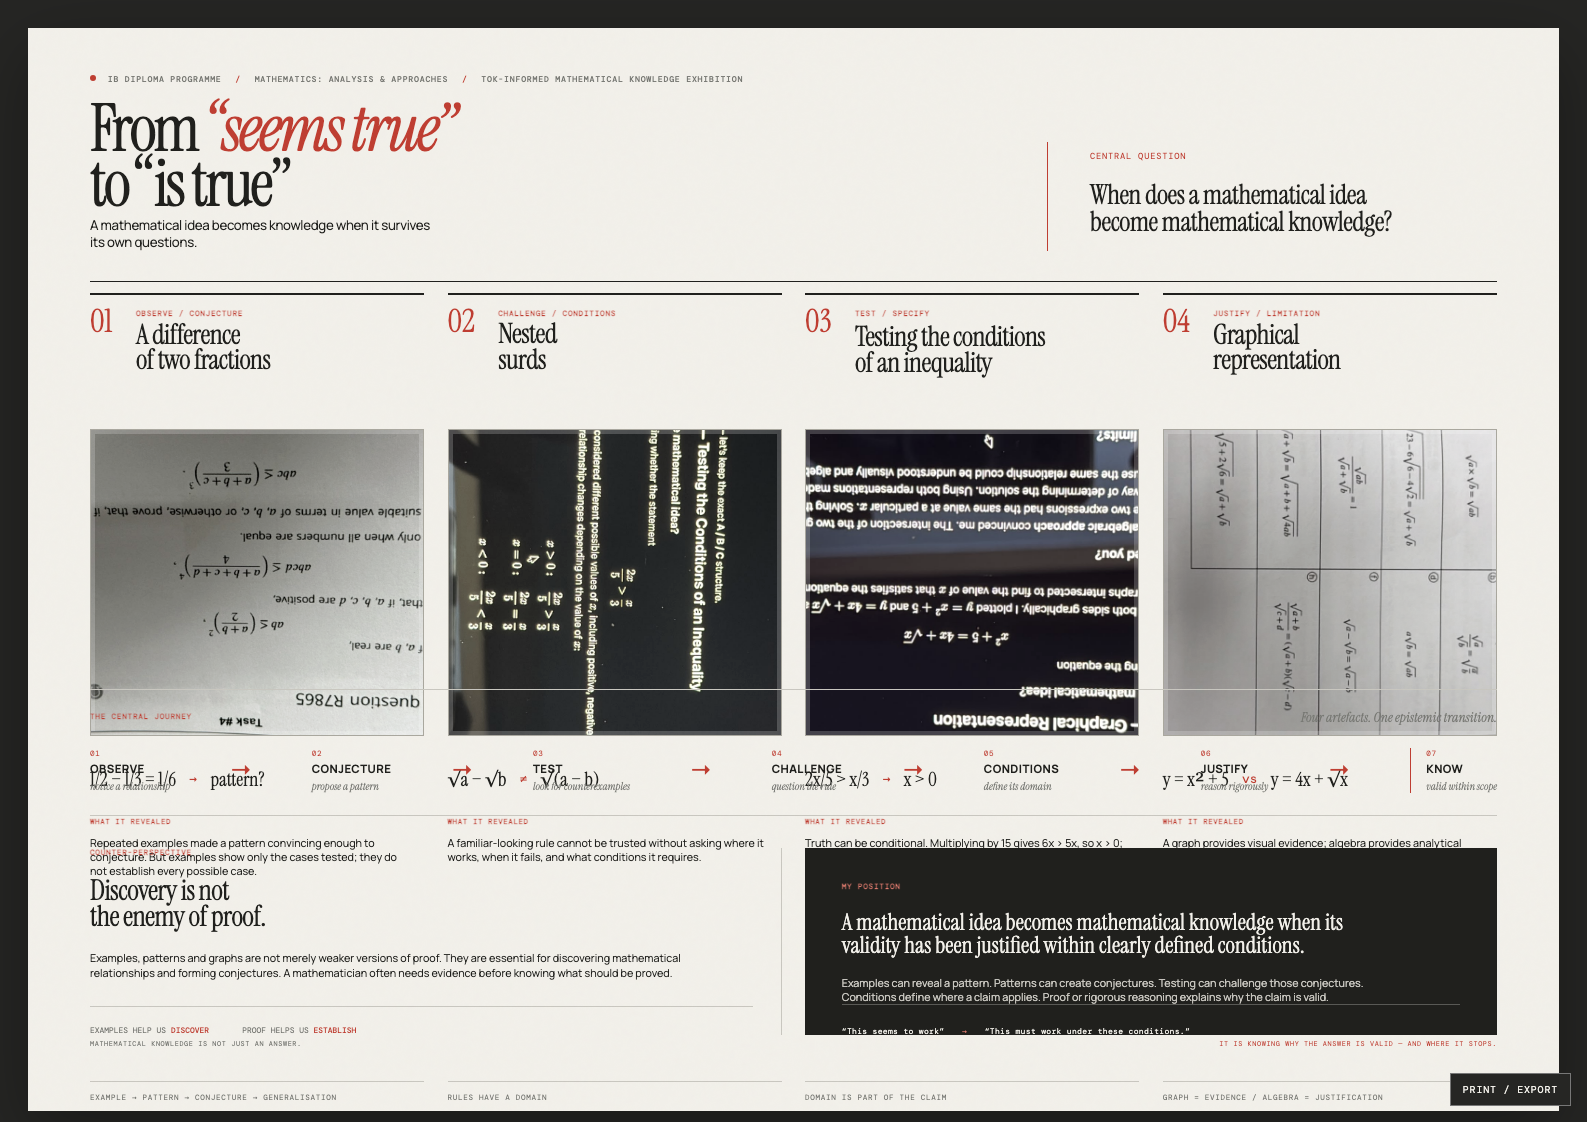
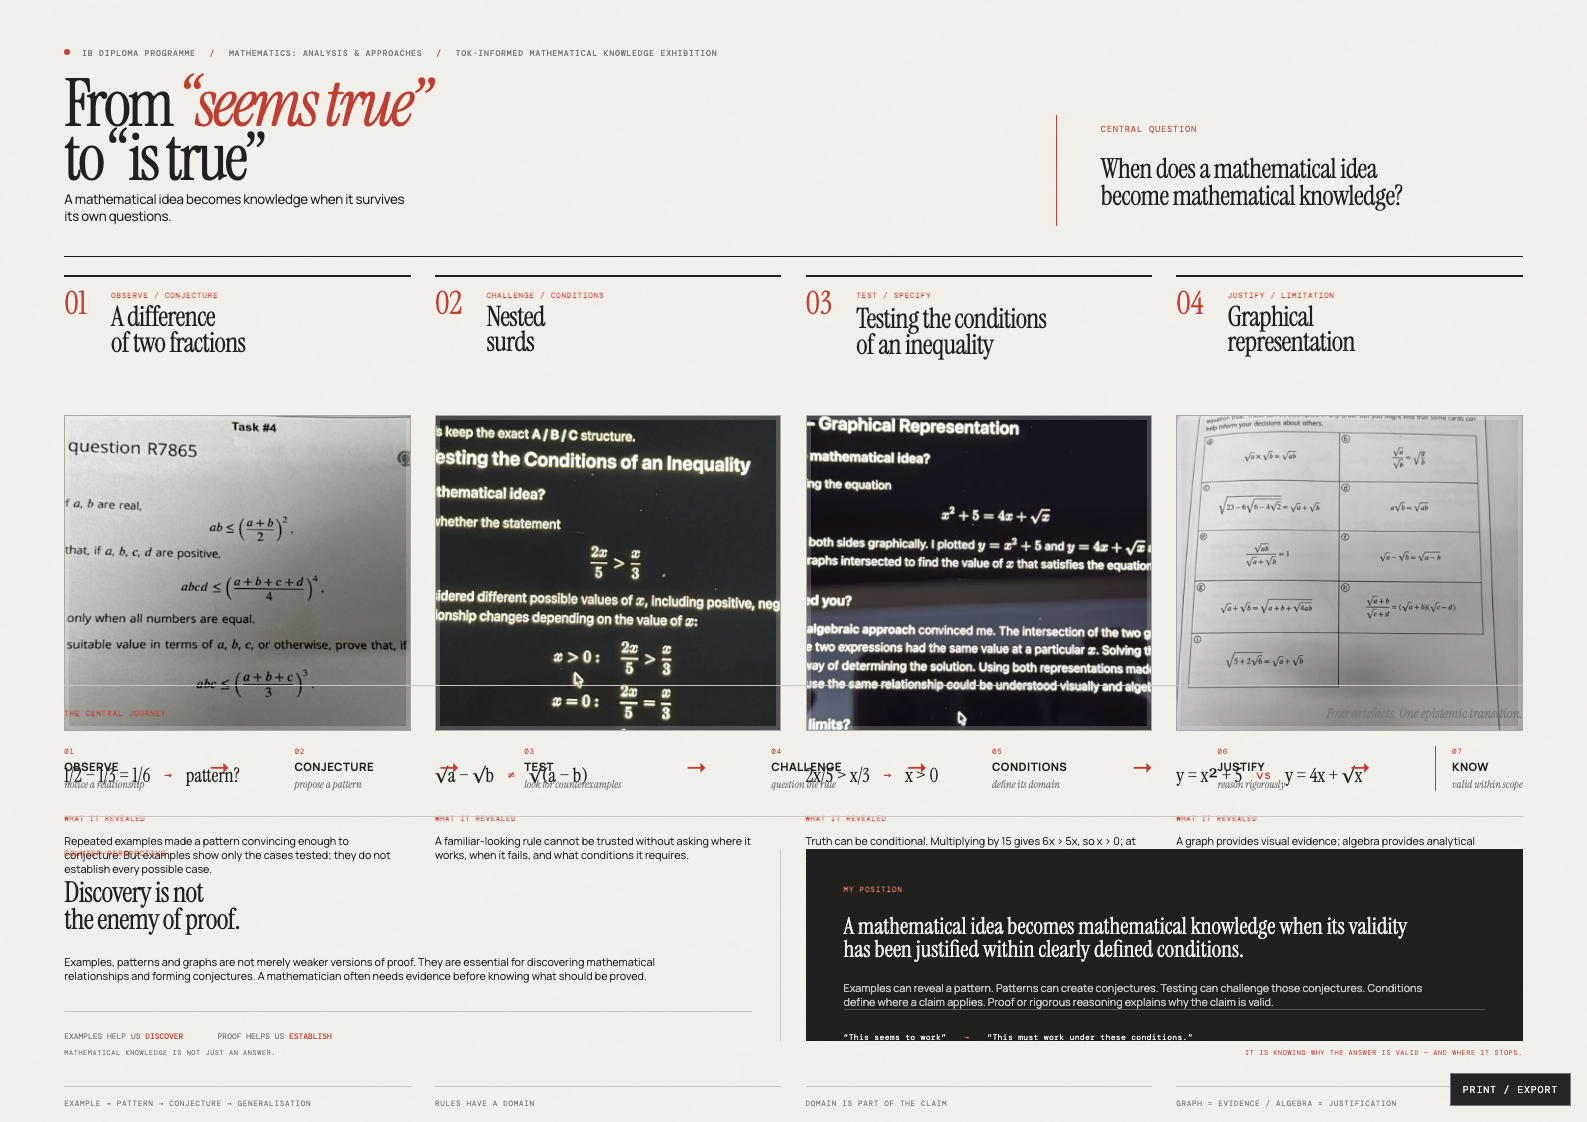
fix: correct evidence photograph orientations

diff --git a/styles.css b/styles.css
@@ -39,9 +39,10 @@ h2 { margin: 4% 0 0; font-family: var(--serif); font-size: clamp(19px, 1.75vw, 3
 .photo { margin: 4% 0 0; height: 38%; overflow: hidden; background: #d9d6ce; border: 1px solid #aaa89f; position: relative; }
 .photo img { width: 100%; height: 100%; object-fit: cover; display: block; filter: saturate(.72) contrast(1.04); }
 .photo::after { content: ''; position: absolute; inset: 0; border: 4px solid rgba(255,255,255,.2); pointer-events: none; }
-.photo-fractions img { transform: rotate(90deg) scale(1.23); }
-.photo-surds img { object-position: center; }
-.photo-inequality img, .photo-graph img { transform: rotate(90deg) scale(1.26); }
+.photo-fractions img { transform: rotate(-90deg) scale(1.23); }
+.photo-surds img { transform: rotate(-90deg) scale(1.26); object-position: center; }
+.photo-inequality img { transform: rotate(-90deg) scale(1.26); }
+.photo-graph img { transform: none; }
 .math-line { display: flex; align-items: center; gap: 4%; font-family: var(--serif); font-size: clamp(13px, 1.22vw, 21px); line-height: 1; min-height: 10%; padding: 4% 0 2%; }
 .math-line .arrow, .math-line .not-equal, .math-line .vs { color: var(--red); font-family: var(--mono); font-size: .66em; }
 .insight { font-size: clamp(8px, .68vw, 12px); line-height: 1.3; margin: 0; max-width: 97%; text-wrap: pretty; }
